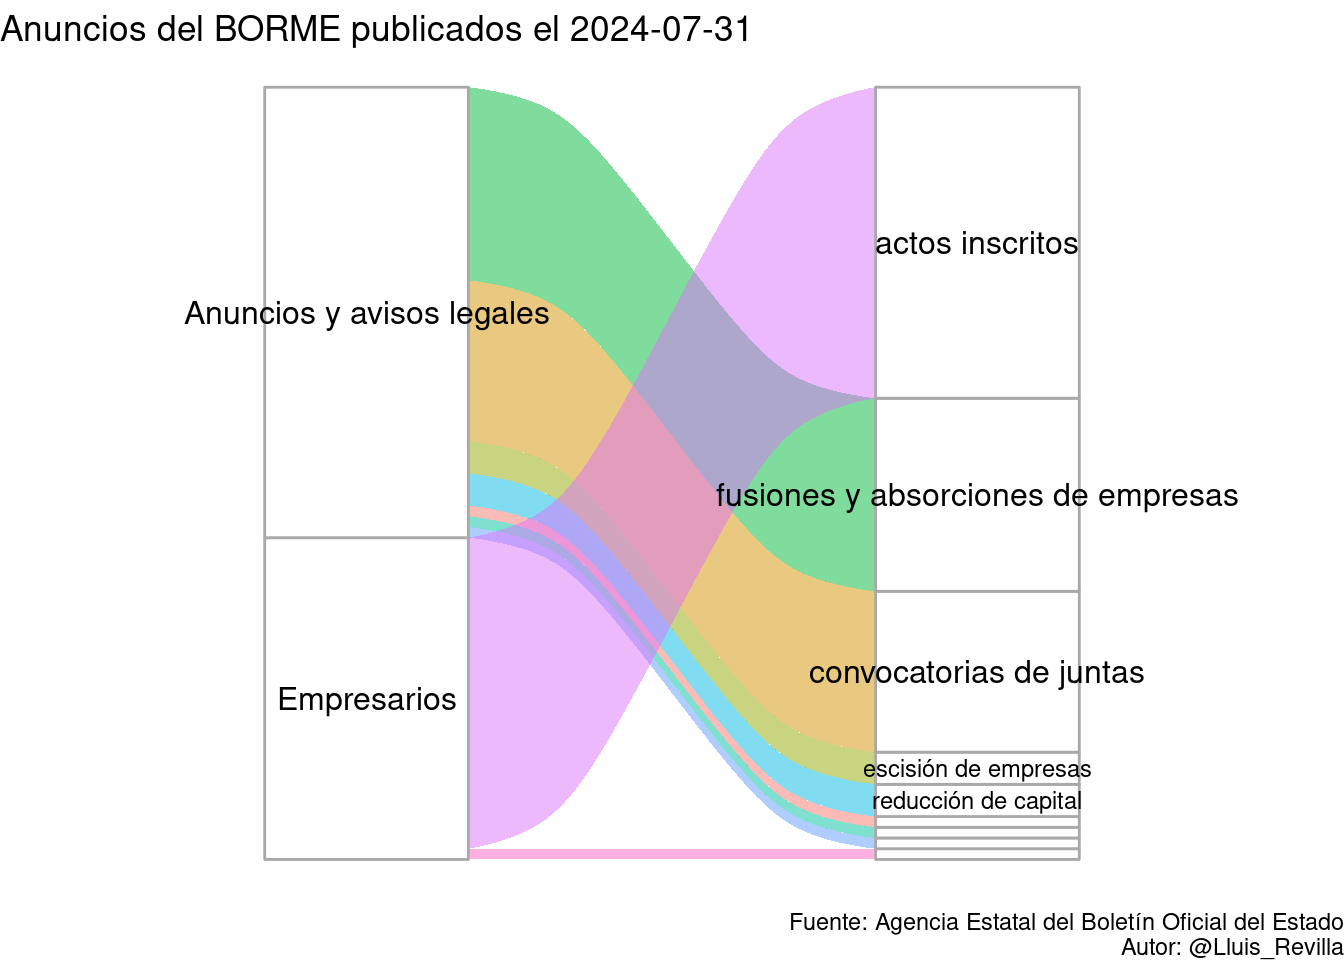
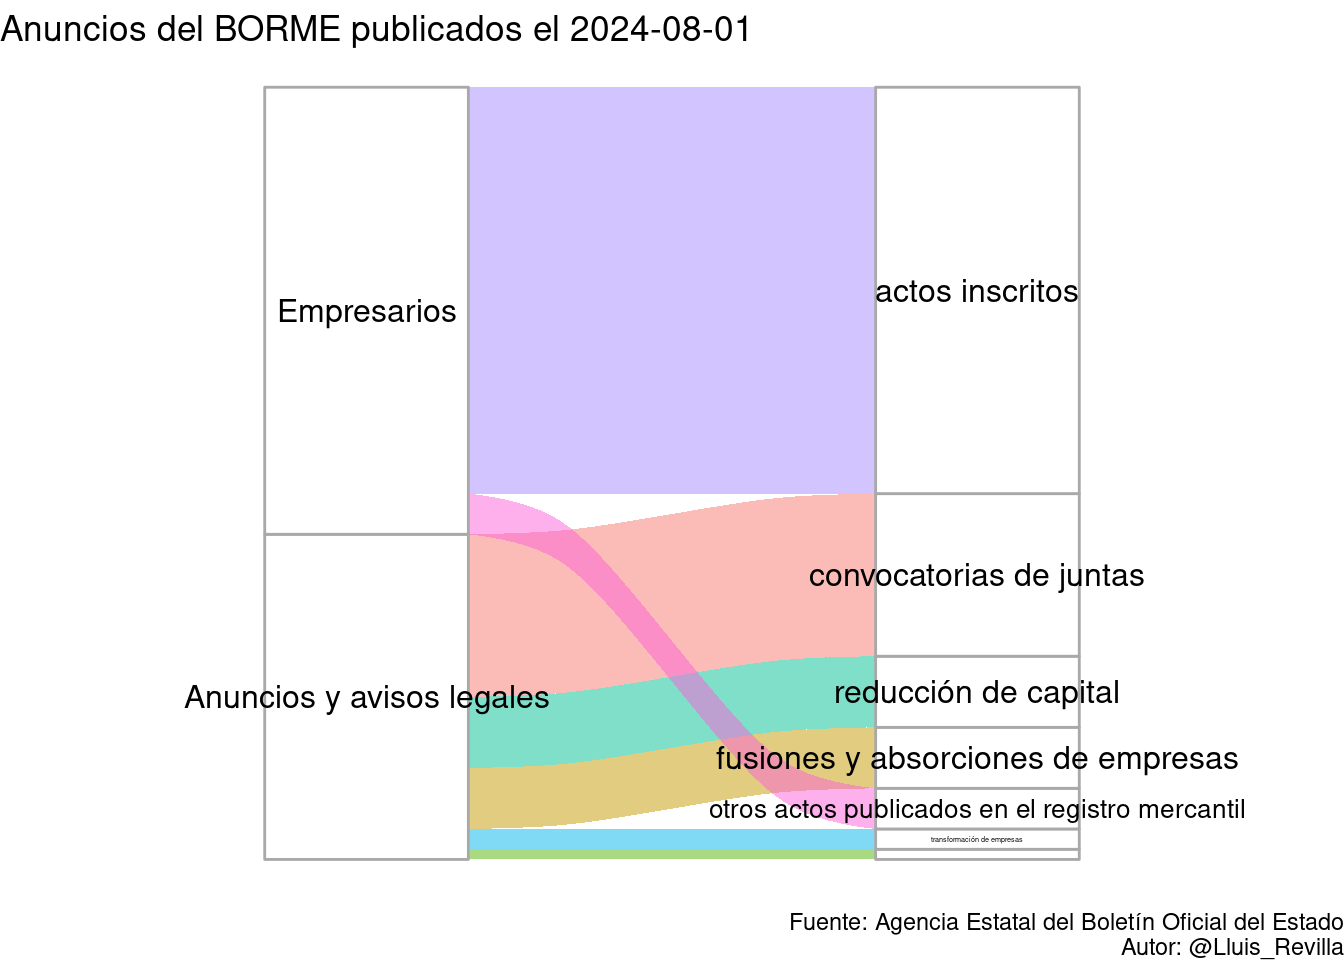
Update BORME

Changed region(s): [[0.125, 0.0938, 0.9375, 0.9062], [0.5, 0.0, 0.5312, 0.0625]]

diff --git a/docs/last_BORME.html b/docs/last_BORME.html
@@ -379,14 +379,14 @@ $(document).ready(function () {
 
 <div id="resumen-gráfico" class="section level1">
 <h1>Resumen gráfico</h1>
-<p>Esta página web contiene el último sumario del BORME publicado el 2024-07-31 con 72 publicaciones.</p>
+<p>Esta página web contiene el último sumario del BORME publicado el 2024-08-01 con 76 publicaciones.</p>
 <p><img src="last_BORME_files/figure-html/graphics-1.png" width="672" /></p>
 </div>
 <div id="tabla-de-publicaciones" class="section level1">
 <h1>Tabla de publicaciones</h1>
 <p>Aquí está la tabla completa con enlaces a las publicaciones:</p>
-<div class="datatables html-widget html-fill-item-overflow-hidden html-fill-item" id="htmlwidget-f85ef2b75a30f18a91fb" style="width:100%;height:auto;"></div>
-<script type="application/json" data-for="htmlwidget-f85ef2b75a30f18a91fb">{"x":{"filter":"top","vertical":false,"filterHTML":"<tr>\n  <td><\/td>\n  <td data-type=\"character\" style=\"vertical-align: top;\">\n    <div class=\"form-group has-feedback\" style=\"margin-bottom: auto;\">\n      <input type=\"search\" placeholder=\"All\" class=\"form-control\" style=\"width: 100%;\"/>\n      <span class=\"glyphicon glyphicon-remove-circle form-control-feedback\"><\/span>\n    <\/div>\n  <\/td>\n  <td data-type=\"character\" style=\"vertical-align: top;\">\n    <div class=\"form-group has-feedback\" style=\"margin-bottom: auto;\">\n      <input type=\"search\" placeholder=\"All\" class=\"form-control\" style=\"width: 100%;\"/>\n      <span class=\"glyphicon glyphicon-remove-circle form-control-feedback\"><\/span>\n    <\/div>\n  <\/td>\n  <td data-type=\"character\" style=\"vertical-align: top;\">\n    <div class=\"form-group has-feedback\" style=\"margin-bottom: auto;\">\n      <input type=\"search\" placeholder=\"All\" class=\"form-control\" style=\"width: 100%;\" disabled=\"\"/>\n      <span class=\"glyphicon glyphicon-remove-circle form-control-feedback\"><\/span>\n    <\/div>\n  <\/td>\n  <td data-type=\"character\" style=\"vertical-align: top;\">\n    <div class=\"form-group has-feedback\" style=\"margin-bottom: auto;\">\n      <input type=\"search\" placeholder=\"All\" class=\"form-control\" style=\"width: 100%;\"/>\n      <span class=\"glyphicon glyphicon-remove-circle form-control-feedback\"><\/span>\n    <\/div>\n  <\/td>\n<\/tr>","data":[["1","2","3","4","5","6","7","8","9","10","11","12","13","14","15","16","17","18","19","20","21","22","23","24","25","26","27","28","29","30","31","32","33","34","35","36","37","38","39","40","41","42","43","44","45","46","47","48","49","50","51","52","53","54","55","56","57","58","59","60","61","62","63","64","65","66","67","68","69","70","71","72"],["SECCIÓN PRIMERA. Empresarios","SECCIÓN PRIMERA. Empresarios","SECCIÓN PRIMERA. Empresarios","SECCIÓN PRIMERA. Empresarios","SECCIÓN PRIMERA. Empresarios","SECCIÓN PRIMERA. Empresarios","SECCIÓN PRIMERA. Empresarios","SECCIÓN PRIMERA. Empresarios","SECCIÓN PRIMERA. Empresarios","SECCIÓN PRIMERA. Empresarios","SECCIÓN PRIMERA. Empresarios","SECCIÓN PRIMERA. Empresarios","SECCIÓN PRIMERA. Empresarios","SECCIÓN PRIMERA. Empresarios","SECCIÓN PRIMERA. Empresarios","SECCIÓN PRIMERA. Empresarios","SECCIÓN PRIMERA. Empresarios","SECCIÓN PRIMERA. Empresarios","SECCIÓN PRIMERA. Empresarios","SECCIÓN PRIMERA. Empresarios","SECCIÓN PRIMERA. Empresarios","SECCIÓN PRIMERA. Empresarios","SECCIÓN PRIMERA. Empresarios","SECCIÓN PRIMERA. Empresarios","SECCIÓN PRIMERA. Empresarios","SECCIÓN PRIMERA. Empresarios","SECCIÓN PRIMERA. Empresarios","SECCIÓN PRIMERA. Empresarios","SECCIÓN PRIMERA. Empresarios","SECCIÓN PRIMERA. Empresarios","SECCIÓN SEGUNDA. Anuncios y avisos legales","SECCIÓN SEGUNDA. Anuncios y avisos legales","SECCIÓN SEGUNDA. Anuncios y avisos legales","SECCIÓN SEGUNDA. Anuncios y avisos legales","SECCIÓN SEGUNDA. Anuncios y avisos legales","SECCIÓN SEGUNDA. Anuncios y avisos legales","SECCIÓN SEGUNDA. Anuncios y avisos legales","SECCIÓN SEGUNDA. Anuncios y avisos legales","SECCIÓN SEGUNDA. Anuncios y avisos legales","SECCIÓN SEGUNDA. Anuncios y avisos legales","SECCIÓN SEGUNDA. Anuncios y avisos legales","SECCIÓN SEGUNDA. Anuncios y avisos legales","SECCIÓN SEGUNDA. Anuncios y avisos legales","SECCIÓN SEGUNDA. Anuncios y avisos legales","SECCIÓN SEGUNDA. Anuncios y avisos legales","SECCIÓN SEGUNDA. Anuncios y avisos legales","SECCIÓN SEGUNDA. Anuncios y avisos legales","SECCIÓN SEGUNDA. Anuncios y avisos legales","SECCIÓN SEGUNDA. Anuncios y avisos legales","SECCIÓN SEGUNDA. Anuncios y avisos legales","SECCIÓN SEGUNDA. Anuncios y avisos legales","SECCIÓN SEGUNDA. Anuncios y avisos legales","SECCIÓN SEGUNDA. Anuncios y avisos legales","SECCIÓN SEGUNDA. Anuncios y avisos legales","SECCIÓN SEGUNDA. Anuncios y avisos legales","SECCIÓN SEGUNDA. Anuncios y avisos legales","SECCIÓN SEGUNDA. Anuncios y avisos legales","SECCIÓN SEGUNDA. Anuncios y avisos legales","SECCIÓN SEGUNDA. Anuncios y avisos legales","SECCIÓN SEGUNDA. Anuncios y avisos legales","SECCIÓN SEGUNDA. Anuncios y avisos legales","SECCIÓN SEGUNDA. Anuncios y avisos legales","SECCIÓN SEGUNDA. Anuncios y avisos legales","SECCIÓN SEGUNDA. Anuncios y avisos legales","SECCIÓN SEGUNDA. Anuncios y avisos legales","SECCIÓN SEGUNDA. Anuncios y avisos legales","SECCIÓN SEGUNDA. Anuncios y avisos legales","SECCIÓN SEGUNDA. Anuncios y avisos legales","SECCIÓN SEGUNDA. Anuncios y avisos legales","SECCIÓN SEGUNDA. Anuncios y avisos legales","SECCIÓN SEGUNDA. Anuncios y avisos legales","SECCIÓN SEGUNDA. Anuncios y avisos legales"],["Actos inscritos","Actos inscritos","Actos inscritos","Actos inscritos","Actos inscritos","Actos inscritos","Actos inscritos","Actos inscritos","Actos inscritos","Actos inscritos","Actos inscritos","Actos inscritos","Actos inscritos","Actos inscritos","Actos inscritos","Actos inscritos","Actos inscritos","Actos inscritos","Actos inscritos","Actos inscritos","Actos inscritos","Actos inscritos","Actos inscritos","Actos inscritos","Actos inscritos","Actos inscritos","Actos inscritos","Actos inscritos","Actos inscritos","Otros actos publicados en el Registro Mercantil","CONVOCATORIAS DE JUNTAS","CONVOCATORIAS DE JUNTAS","CONVOCATORIAS DE JUNTAS","CONVOCATORIAS DE JUNTAS","CONVOCATORIAS DE JUNTAS","CONVOCATORIAS DE JUNTAS","CONVOCATORIAS DE JUNTAS","CONVOCATORIAS DE JUNTAS","CONVOCATORIAS DE JUNTAS","CONVOCATORIAS DE JUNTAS","CONVOCATORIAS DE JUNTAS","CONVOCATORIAS DE JUNTAS","CONVOCATORIAS DE JUNTAS","CONVOCATORIAS DE JUNTAS","CONVOCATORIAS DE JUNTAS","FUSIONES Y ABSORCIONES DE EMPRESAS","FUSIONES Y ABSORCIONES DE EMPRESAS","FUSIONES Y ABSORCIONES DE EMPRESAS","FUSIONES Y ABSORCIONES DE EMPRESAS","FUSIONES Y ABSORCIONES DE EMPRESAS","FUSIONES Y ABSORCIONES DE EMPRESAS","FUSIONES Y ABSORCIONES DE EMPRESAS","FUSIONES Y ABSORCIONES DE EMPRESAS","FUSIONES Y ABSORCIONES DE EMPRESAS","FUSIONES Y ABSORCIONES DE EMPRESAS","FUSIONES Y ABSORCIONES DE EMPRESAS","FUSIONES Y ABSORCIONES DE EMPRESAS","FUSIONES Y ABSORCIONES DE EMPRESAS","FUSIONES Y ABSORCIONES DE EMPRESAS","FUSIONES Y ABSORCIONES DE EMPRESAS","FUSIONES Y ABSORCIONES DE EMPRESAS","FUSIONES Y ABSORCIONES DE EMPRESAS","FUSIONES Y ABSORCIONES DE EMPRESAS","ESCISIÓN DE EMPRESAS","ESCISIÓN DE EMPRESAS","ESCISIÓN DE EMPRESAS","CESIÓN DE EMPRESAS","TRANSFORMACIÓN DE EMPRESAS","REDUCCIÓN DE CAPITAL","REDUCCIÓN DE CAPITAL","REDUCCIÓN DE CAPITAL","OTROS ANUNCIOS Y AVISOS LEGALES"],[null,null,null,null,null,null,null,null,null,null,null,null,null,null,null,null,null,null,null,null,null,null,null,null,null,null,null,null,null,null,null,null,null,null,null,null,null,null,null,null,null,null,null,null,null,null,null,null,null,null,null,null,null,null,null,null,null,null,null,null,null,null,null,null,null,null,null,null,null,null,null,null],["BORME-A-2024-146-02","BORME-A-2024-146-03","BORME-A-2024-146-04","BORME-A-2024-146-06","BORME-A-2024-146-08","BORME-A-2024-146-11","BORME-A-2024-146-12","BORME-A-2024-146-14","BORME-A-2024-146-15","BORME-A-2024-146-16","BORME-A-2024-146-17","BORME-A-2024-146-22","BORME-A-2024-146-23","BORME-A-2024-146-24","BORME-A-2024-146-25","BORME-A-2024-146-28","BORME-A-2024-146-29","BORME-A-2024-146-30","BORME-A-2024-146-31","BORME-A-2024-146-35","BORME-A-2024-146-36","BORME-A-2024-146-38","BORME-A-2024-146-40","BORME-A-2024-146-43","BORME-A-2024-146-45","BORME-A-2024-146-46","BORME-A-2024-146-47","BORME-A-2024-146-48","BORME-A-2024-146-99","BORME-B-2024-146-28","BORME-C-2024-4630","BORME-C-2024-4631","BORME-C-2024-4632","BORME-C-2024-4633","BORME-C-2024-4634","BORME-C-2024-4635","BORME-C-2024-4636","BORME-C-2024-4637","BORME-C-2024-4638","BORME-C-2024-4639","BORME-C-2024-4640","BORME-C-2024-4641","BORME-C-2024-4642","BORME-C-2024-4643","BORME-C-2024-4644","BORME-C-2024-4645","BORME-C-2024-4646","BORME-C-2024-4647","BORME-C-2024-4648","BORME-C-2024-4649","BORME-C-2024-4650","BORME-C-2024-4651","BORME-C-2024-4652","BORME-C-2024-4653","BORME-C-2024-4654","BORME-C-2024-4655","BORME-C-2024-4656","BORME-C-2024-4657","BORME-C-2024-4658","BORME-C-2024-4659","BORME-C-2024-4660","BORME-C-2024-4661","BORME-C-2024-4662","BORME-C-2024-4663","BORME-C-2024-4664","BORME-C-2024-4665","BORME-C-2024-4666","BORME-C-2024-4667","BORME-C-2024-4668","BORME-C-2024-4669","BORME-C-2024-4670","BORME-C-2024-4671"]],"container":"<table class=\"display\">\n  <thead>\n    <tr>\n      <th> <\/th>\n      <th>Sección<\/th>\n      <th>Emisor<\/th>\n      <th>Texto<\/th>\n      <th>Link<\/th>\n    <\/tr>\n  <\/thead>\n<\/table>","options":{"pageLength":10,"autoWidth":true,"columnDefs":[{"orderable":false,"targets":0},{"name":" ","targets":0},{"name":"Sección","targets":1},{"name":"Emisor","targets":2},{"name":"Texto","targets":3},{"name":"Link","targets":4}],"order":[],"orderClasses":false,"orderCellsTop":true}},"evals":[],"jsHooks":[]}</script>
+<div class="datatables html-widget html-fill-item-overflow-hidden html-fill-item" id="htmlwidget-1cc5d18e72e7dcc838f4" style="width:100%;height:auto;"></div>
+<script type="application/json" data-for="htmlwidget-1cc5d18e72e7dcc838f4">{"x":{"filter":"top","vertical":false,"filterHTML":"<tr>\n  <td><\/td>\n  <td data-type=\"character\" style=\"vertical-align: top;\">\n    <div class=\"form-group has-feedback\" style=\"margin-bottom: auto;\">\n      <input type=\"search\" placeholder=\"All\" class=\"form-control\" style=\"width: 100%;\"/>\n      <span class=\"glyphicon glyphicon-remove-circle form-control-feedback\"><\/span>\n    <\/div>\n  <\/td>\n  <td data-type=\"character\" style=\"vertical-align: top;\">\n    <div class=\"form-group has-feedback\" style=\"margin-bottom: auto;\">\n      <input type=\"search\" placeholder=\"All\" class=\"form-control\" style=\"width: 100%;\"/>\n      <span class=\"glyphicon glyphicon-remove-circle form-control-feedback\"><\/span>\n    <\/div>\n  <\/td>\n  <td data-type=\"character\" style=\"vertical-align: top;\">\n    <div class=\"form-group has-feedback\" style=\"margin-bottom: auto;\">\n      <input type=\"search\" placeholder=\"All\" class=\"form-control\" style=\"width: 100%;\" disabled=\"\"/>\n      <span class=\"glyphicon glyphicon-remove-circle form-control-feedback\"><\/span>\n    <\/div>\n  <\/td>\n  <td data-type=\"character\" style=\"vertical-align: top;\">\n    <div class=\"form-group has-feedback\" style=\"margin-bottom: auto;\">\n      <input type=\"search\" placeholder=\"All\" class=\"form-control\" style=\"width: 100%;\"/>\n      <span class=\"glyphicon glyphicon-remove-circle form-control-feedback\"><\/span>\n    <\/div>\n  <\/td>\n<\/tr>","data":[["1","2","3","4","5","6","7","8","9","10","11","12","13","14","15","16","17","18","19","20","21","22","23","24","25","26","27","28","29","30","31","32","33","34","35","36","37","38","39","40","41","42","43","44","45","46","47","48","49","50","51","52","53","54","55","56","57","58","59","60","61","62","63","64","65","66","67","68","69","70","71","72","73","74","75","76"],["SECCIÓN PRIMERA. Empresarios","SECCIÓN PRIMERA. Empresarios","SECCIÓN PRIMERA. Empresarios","SECCIÓN PRIMERA. Empresarios","SECCIÓN PRIMERA. Empresarios","SECCIÓN PRIMERA. Empresarios","SECCIÓN PRIMERA. Empresarios","SECCIÓN PRIMERA. Empresarios","SECCIÓN PRIMERA. Empresarios","SECCIÓN PRIMERA. Empresarios","SECCIÓN PRIMERA. Empresarios","SECCIÓN PRIMERA. Empresarios","SECCIÓN PRIMERA. Empresarios","SECCIÓN PRIMERA. Empresarios","SECCIÓN PRIMERA. Empresarios","SECCIÓN PRIMERA. Empresarios","SECCIÓN PRIMERA. Empresarios","SECCIÓN PRIMERA. Empresarios","SECCIÓN PRIMERA. Empresarios","SECCIÓN PRIMERA. Empresarios","SECCIÓN PRIMERA. Empresarios","SECCIÓN PRIMERA. Empresarios","SECCIÓN PRIMERA. Empresarios","SECCIÓN PRIMERA. Empresarios","SECCIÓN PRIMERA. Empresarios","SECCIÓN PRIMERA. Empresarios","SECCIÓN PRIMERA. Empresarios","SECCIÓN PRIMERA. Empresarios","SECCIÓN PRIMERA. Empresarios","SECCIÓN PRIMERA. Empresarios","SECCIÓN PRIMERA. Empresarios","SECCIÓN PRIMERA. Empresarios","SECCIÓN PRIMERA. Empresarios","SECCIÓN PRIMERA. Empresarios","SECCIÓN PRIMERA. Empresarios","SECCIÓN PRIMERA. Empresarios","SECCIÓN PRIMERA. Empresarios","SECCIÓN PRIMERA. Empresarios","SECCIÓN PRIMERA. Empresarios","SECCIÓN PRIMERA. Empresarios","SECCIÓN PRIMERA. Empresarios","SECCIÓN PRIMERA. Empresarios","SECCIÓN PRIMERA. Empresarios","SECCIÓN PRIMERA. Empresarios","SECCIÓN SEGUNDA. Anuncios y avisos legales","SECCIÓN SEGUNDA. Anuncios y avisos legales","SECCIÓN SEGUNDA. Anuncios y avisos legales","SECCIÓN SEGUNDA. Anuncios y avisos legales","SECCIÓN SEGUNDA. Anuncios y avisos legales","SECCIÓN SEGUNDA. Anuncios y avisos legales","SECCIÓN SEGUNDA. Anuncios y avisos legales","SECCIÓN SEGUNDA. Anuncios y avisos legales","SECCIÓN SEGUNDA. Anuncios y avisos legales","SECCIÓN SEGUNDA. Anuncios y avisos legales","SECCIÓN SEGUNDA. Anuncios y avisos legales","SECCIÓN SEGUNDA. Anuncios y avisos legales","SECCIÓN SEGUNDA. Anuncios y avisos legales","SECCIÓN SEGUNDA. Anuncios y avisos legales","SECCIÓN SEGUNDA. Anuncios y avisos legales","SECCIÓN SEGUNDA. Anuncios y avisos legales","SECCIÓN SEGUNDA. Anuncios y avisos legales","SECCIÓN SEGUNDA. Anuncios y avisos legales","SECCIÓN SEGUNDA. Anuncios y avisos legales","SECCIÓN SEGUNDA. Anuncios y avisos legales","SECCIÓN SEGUNDA. Anuncios y avisos legales","SECCIÓN SEGUNDA. Anuncios y avisos legales","SECCIÓN SEGUNDA. Anuncios y avisos legales","SECCIÓN SEGUNDA. Anuncios y avisos legales","SECCIÓN SEGUNDA. Anuncios y avisos legales","SECCIÓN SEGUNDA. Anuncios y avisos legales","SECCIÓN SEGUNDA. Anuncios y avisos legales","SECCIÓN SEGUNDA. Anuncios y avisos legales","SECCIÓN SEGUNDA. Anuncios y avisos legales","SECCIÓN SEGUNDA. Anuncios y avisos legales","SECCIÓN SEGUNDA. Anuncios y avisos legales","SECCIÓN SEGUNDA. Anuncios y avisos legales"],["Actos inscritos","Actos inscritos","Actos inscritos","Actos inscritos","Actos inscritos","Actos inscritos","Actos inscritos","Actos inscritos","Actos inscritos","Actos inscritos","Actos inscritos","Actos inscritos","Actos inscritos","Actos inscritos","Actos inscritos","Actos inscritos","Actos inscritos","Actos inscritos","Actos inscritos","Actos inscritos","Actos inscritos","Actos inscritos","Actos inscritos","Actos inscritos","Actos inscritos","Actos inscritos","Actos inscritos","Actos inscritos","Actos inscritos","Actos inscritos","Actos inscritos","Actos inscritos","Actos inscritos","Actos inscritos","Actos inscritos","Actos inscritos","Actos inscritos","Actos inscritos","Actos inscritos","Actos inscritos","Otros actos publicados en el Registro Mercantil","Otros actos publicados en el Registro Mercantil","Otros actos publicados en el Registro Mercantil","Otros actos publicados en el Registro Mercantil","CONVOCATORIAS DE JUNTAS","CONVOCATORIAS DE JUNTAS","CONVOCATORIAS DE JUNTAS","CONVOCATORIAS DE JUNTAS","CONVOCATORIAS DE JUNTAS","CONVOCATORIAS DE JUNTAS","CONVOCATORIAS DE JUNTAS","CONVOCATORIAS DE JUNTAS","CONVOCATORIAS DE JUNTAS","CONVOCATORIAS DE JUNTAS","CONVOCATORIAS DE JUNTAS","CONVOCATORIAS DE JUNTAS","CONVOCATORIAS DE JUNTAS","CONVOCATORIAS DE JUNTAS","CONVOCATORIAS DE JUNTAS","CONVOCATORIAS DE JUNTAS","FUSIONES Y ABSORCIONES DE EMPRESAS","FUSIONES Y ABSORCIONES DE EMPRESAS","FUSIONES Y ABSORCIONES DE EMPRESAS","FUSIONES Y ABSORCIONES DE EMPRESAS","FUSIONES Y ABSORCIONES DE EMPRESAS","FUSIONES Y ABSORCIONES DE EMPRESAS","TRANSFORMACIÓN DE EMPRESAS","TRANSFORMACIÓN DE EMPRESAS","REDUCCIÓN DE CAPITAL","REDUCCIÓN DE CAPITAL","REDUCCIÓN DE CAPITAL","REDUCCIÓN DE CAPITAL","REDUCCIÓN DE CAPITAL","REDUCCIÓN DE CAPITAL","REDUCCIÓN DE CAPITAL","OTROS ANUNCIOS Y AVISOS LEGALES"],[null,null,null,null,null,null,null,null,null,null,null,null,null,null,null,null,null,null,null,null,null,null,null,null,null,null,null,null,null,null,null,null,null,null,null,null,null,null,null,null,null,null,null,null,null,null,null,null,null,null,null,null,null,null,null,null,null,null,null,null,null,null,null,null,null,null,null,null,null,null,null,null,null,null,null,null],["BORME-A-2024-147-02","BORME-A-2024-147-03","BORME-A-2024-147-04","BORME-A-2024-147-06","BORME-A-2024-147-07","BORME-A-2024-147-08","BORME-A-2024-147-09","BORME-A-2024-147-10","BORME-A-2024-147-11","BORME-A-2024-147-12","BORME-A-2024-147-13","BORME-A-2024-147-14","BORME-A-2024-147-15","BORME-A-2024-147-17","BORME-A-2024-147-18","BORME-A-2024-147-20","BORME-A-2024-147-23","BORME-A-2024-147-24","BORME-A-2024-147-25","BORME-A-2024-147-26","BORME-A-2024-147-28","BORME-A-2024-147-29","BORME-A-2024-147-30","BORME-A-2024-147-32","BORME-A-2024-147-33","BORME-A-2024-147-34","BORME-A-2024-147-35","BORME-A-2024-147-36","BORME-A-2024-147-37","BORME-A-2024-147-38","BORME-A-2024-147-39","BORME-A-2024-147-40","BORME-A-2024-147-41","BORME-A-2024-147-43","BORME-A-2024-147-45","BORME-A-2024-147-46","BORME-A-2024-147-47","BORME-A-2024-147-49","BORME-A-2024-147-50","BORME-A-2024-147-99","BORME-B-2024-147-08","BORME-B-2024-147-11","BORME-B-2024-147-28","BORME-B-2024-147-50","BORME-C-2024-4672","BORME-C-2024-4673","BORME-C-2024-4674","BORME-C-2024-4675","BORME-C-2024-4676","BORME-C-2024-4677","BORME-C-2024-4678","BORME-C-2024-4679","BORME-C-2024-4680","BORME-C-2024-4681","BORME-C-2024-4682","BORME-C-2024-4683","BORME-C-2024-4684","BORME-C-2024-4685","BORME-C-2024-4686","BORME-C-2024-4687","BORME-C-2024-4688","BORME-C-2024-4689","BORME-C-2024-4690","BORME-C-2024-4691","BORME-C-2024-4692","BORME-C-2024-4693","BORME-C-2024-4694","BORME-C-2024-4695","BORME-C-2024-4696","BORME-C-2024-4697","BORME-C-2024-4698","BORME-C-2024-4699","BORME-C-2024-4700","BORME-C-2024-4701","BORME-C-2024-4702","BORME-C-2024-4703"]],"container":"<table class=\"display\">\n  <thead>\n    <tr>\n      <th> <\/th>\n      <th>Sección<\/th>\n      <th>Emisor<\/th>\n      <th>Texto<\/th>\n      <th>Link<\/th>\n    <\/tr>\n  <\/thead>\n<\/table>","options":{"pageLength":10,"autoWidth":true,"columnDefs":[{"orderable":false,"targets":0},{"name":" ","targets":0},{"name":"Sección","targets":1},{"name":"Emisor","targets":2},{"name":"Texto","targets":3},{"name":"Link","targets":4}],"order":[],"orderClasses":false,"orderCellsTop":true}},"evals":[],"jsHooks":[]}</script>
 </div>
 
 
